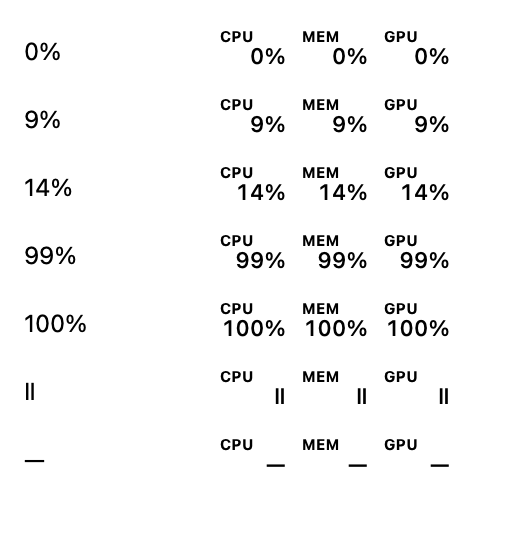
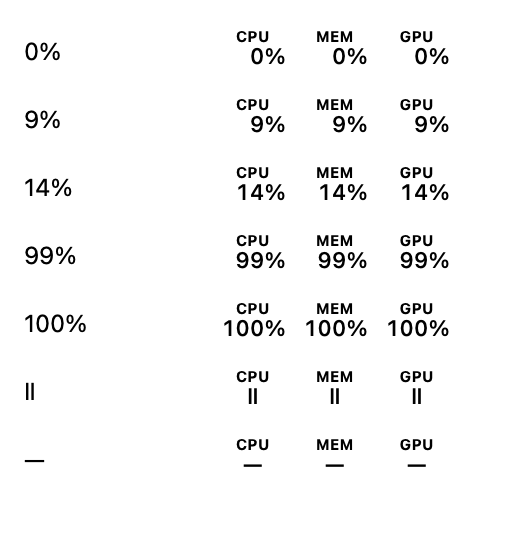
Fix meter centering and resized display placement before release

diff --git a/Sources/MyStat/AppDelegate.swift b/Sources/MyStat/AppDelegate.swift
@@ -20,7 +20,7 @@ final class Monitor: ObservableObject {
     @Published var interval: Double = 2
     @Published var paused = false
     let hardware = HardwareInfo()
-    let panelHeight = min(790.0, max(560.0, (NSScreen.main?.visibleFrame.height ?? 900) - 65))
+    @Published var panelHeight: CGFloat = 790
     var onUpdate: (() -> Void)?
     private let queue = DispatchQueue(label: "io.github.ballardcm.MyStat.sampling", qos: .utility)
     private var timer: DispatchSourceTimer?
@@ -104,6 +104,12 @@ final class AppDelegate: NSObject, NSApplicationDelegate, NSWindowDelegate {
         observers.append(NotificationCenter.default.addObserver(forName: NSApplication.didResignActiveNotification, object: NSApp, queue: .main) { [weak self] _ in
             MainActor.assumeIsolated { self?.closePanel() }
         })
+        observers.append(NotificationCenter.default.addObserver(forName: NSApplication.didChangeScreenParametersNotification, object: nil, queue: .main) { [weak self] _ in
+            // Let AppKit update the status item's screen and anchor before measuring.
+            DispatchQueue.main.async {
+                if self?.panel.isVisible == true { self?.showPanel() }
+            }
+        })
         let center = NSWorkspace.shared.notificationCenter
         observers.append(center.addObserver(forName: NSWorkspace.willSleepNotification, object: nil, queue: .main) { [weak self] _ in
             MainActor.assumeIsolated { if self?.monitor.paused == false { self?.monitor.togglePause(); self?.resumeAfterSleep = true } }
@@ -130,15 +136,15 @@ final class AppDelegate: NSObject, NSApplicationDelegate, NSWindowDelegate {
     }
     private func showPanel() {
         guard let button = item.button, let statusWindow = button.window else { return }
+        let anchor = statusWindow.convertToScreen(button.convert(button.bounds, to: nil))
+        guard let screen = statusWindow.screen ?? NSScreen.main else { return }
+        let frame = DashboardPlacement.frame(anchor: anchor, visibleFrame: screen.visibleFrame)
+        monitor.panelHeight = frame.height
         if panel.contentViewController == nil {
             panel.contentViewController = NSHostingController(rootView: Dashboard(monitor: monitor, updates: updates, close: { [weak self] in self?.closePanel() }).clipShape(RoundedRectangle(cornerRadius: 14)))
         }
-        let anchor = statusWindow.convertToScreen(button.convert(button.bounds, to: nil))
-        let screen = statusWindow.screen?.visibleFrame ?? NSScreen.main!.visibleFrame
-        let x = min(max(screen.minX + 8, anchor.midX - 212), screen.maxX - 432)
-        let y = max(screen.minY + 8, anchor.minY - monitor.panelHeight - 5)
         // Attaching a fresh hosting controller can reset the borderless panel's size.
-        panel.setFrame(NSRect(x: x, y: y, width: 424, height: monitor.panelHeight), display: true)
+        panel.setFrame(frame, display: true)
         panel.makeKeyAndOrderFront(nil)
         installDismissalMonitors()
         reviewEvent("opened key=\(panel.isKeyWindow)")

diff --git a/Tests/MenuBarMeterTests.swift b/Tests/MenuBarMeterTests.swift
@@ -20,6 +20,13 @@ struct MenuBarMeterTests {
         // A left-aligned implementation has the same image size but fails this check.
         for scale in [1, 2] {
             let baseline = bitmap(reference, scale: scale)
+            for column in 0..<3 {
+                assertCentered(baseline, column: column, rows: 0..<10 * scale, scale: scale, label: "Caption")
+                for symbol in ["Ⅱ", "—"] {
+                    let rendered = bitmap(MenuBarMeter.image(texts: [symbol, symbol, symbol]), scale: scale)
+                    assertCentered(rendered, column: column, rows: 10 * scale..<22 * scale, scale: scale, label: symbol)
+                }
+            }
             for value in ["0%", "9%", "14%", "99%"] {
                 let rendered = bitmap(MenuBarMeter.image(texts: [value, value, value]), scale: scale)
                 for column in 0..<3 {
@@ -80,6 +87,21 @@ struct MenuBarMeterTests {
             try data.write(to: URL(fileURLWithPath: CommandLine.arguments[index + 1]))
         }
         print("PASS: 343 menu-bar state combinations keep \(reference.size.width) × \(reference.size.height) points; percent signs stay aligned at 1× and 2×")
+    }
+
+    @MainActor
+    static func assertCentered(_ bitmap: NSBitmapImageRep, column: Int, rows: Range<Int>, scale: Int, label: String) {
+        let cellWidth = (bitmap.pixelsWide / scale - 16) / 3
+        let left = (cellWidth + 8) * column * scale
+        let right = left + cellWidth * scale
+        let ink = (left..<right).filter { x in
+            rows.contains { y in (bitmap.colorAt(x: x, y: y)?.alphaComponent ?? 0) > 0.1 }
+        }
+        guard let first = ink.first, let last = ink.last else { fatalError("Missing \(label) pixels") }
+        let inkCenter = Double(first + last + 1) / 2
+        let cellCenter = Double(left + right) / 2
+        precondition(abs(inkCenter - cellCenter) <= 1.5 * Double(scale),
+                     "\(label) off center in column \(column), scale \(scale): \(inkCenter) vs \(cellCenter)")
     }
 
     @MainActor

diff --git a/Tests/DashboardPlacementTests.swift b/Tests/DashboardPlacementTests.swift
@@ -1,0 +1,31 @@
+import AppKit
+
+@main
+struct DashboardPlacementTests {
+    static func main() {
+        // Opening after a VM resize or on another display must use that display's
+        // current coordinates, including negative origins and a Dock inset.
+        for screen in [
+            NSRect(x: 0, y: 70, width: 1440, height: 805),
+            NSRect(x: 0, y: 60, width: 800, height: 515),
+            NSRect(x: -1920, y: -300, width: 1920, height: 1055),
+            NSRect(x: 1440, y: 110, width: 1024, height: 633)
+        ] {
+            for center in [screen.minX + 50, screen.midX, screen.maxX - 50] {
+                let anchor = NSRect(x: center - 60, y: screen.maxY, width: 120, height: 25)
+                let frame = DashboardPlacement.frame(anchor: anchor, visibleFrame: screen)
+                precondition(frame.minX >= screen.minX + 8 && frame.maxX <= screen.maxX - 8)
+                precondition(frame.minY >= screen.minY + 8 && frame.maxY <= screen.maxY - 8)
+                precondition(frame.maxY <= anchor.minY - 5)
+                precondition(frame.width == 424 && frame.height <= 790)
+                if center == screen.midX { precondition(frame.midX == center) }
+            }
+        }
+        let large = NSRect(x: 0, y: 0, width: 1440, height: 1000)
+        let small = NSRect(x: 0, y: 0, width: 800, height: 500)
+        let largeFrame = DashboardPlacement.frame(anchor: NSRect(x: 1000, y: 1000, width: 120, height: 25), visibleFrame: large)
+        let smallFrame = DashboardPlacement.frame(anchor: NSRect(x: 600, y: 500, width: 120, height: 25), visibleFrame: small)
+        precondition(largeFrame.height == 790 && smallFrame.height == 484)
+        print("PASS: dashboard fits current display after resizing, with edge anchors, Dock insets, and multiple-screen origins")
+    }
+}

diff --git a/Sources/MyStat/MenuBarMeter.swift b/Sources/MyStat/MenuBarMeter.swift
@@ -25,9 +25,14 @@ enum MenuBarMeter {
         let image = NSImage(size: NSSize(width: width, height: 22), flipped: false) { _ in
             var x: CGFloat = 0
             for index in labels.indices {
-                (labels[index] as NSString).draw(at: NSPoint(x: x, y: 12), withAttributes: caption)
+                let label = labels[index] as NSString
+                let captionX = x + (widths[index] - label.size(withAttributes: caption).width) / 2
+                label.draw(at: NSPoint(x: captionX, y: 12), withAttributes: caption)
                 let text = texts[index] as NSString
-                let numberX = x + widths[index] - text.size(withAttributes: number).width
+                let remaining = widths[index] - text.size(withAttributes: number).width
+                // Numeric readings keep their percent signs aligned. Standalone state
+                // symbols belong under the caption, not against the column's right edge.
+                let numberX = x + (texts[index] == "Ⅱ" || texts[index] == "—" ? remaining / 2 : remaining)
                 text.draw(at: NSPoint(x: numberX, y: 0), withAttributes: number)
                 x += widths[index] + gap
             }

diff --git a/Sources/MyStat/DashboardPlacement.swift b/Sources/MyStat/DashboardPlacement.swift
@@ -1,0 +1,13 @@
+import AppKit
+
+enum DashboardPlacement {
+    static func frame(anchor: NSRect, visibleFrame: NSRect) -> NSRect {
+        let margin: CGFloat = 8
+        let width: CGFloat = 424
+        let top = min(anchor.minY - 5, visibleFrame.maxY - margin)
+        let height = min(790, max(0, top - visibleFrame.minY - margin))
+        let x = min(max(visibleFrame.minX + margin, anchor.midX - width / 2),
+                    visibleFrame.maxX - width - margin)
+        return NSRect(x: x, y: top - height, width: width, height: height)
+    }
+}

diff --git a/docs/testing/2026-10-12-release-0.2.0-preparation.md b/docs/testing/2026-10-12-release-0.2.0-preparation.md
@@ -1,6 +1,6 @@
 # MyStat 0.2.0 release preparation
 
-Status: **not release-qualified or published**. Apple Developer Program activation is now complete and certificate management is accessible. Developer ID certificate creation, a notarization Keychain credential, and real signed-release qualification are still pending. No valid local code-signing identity was available during the initial preparation.
+Status: **signed and notarized candidates verified; final release qualification in progress**. Developer ID and notarization Keychain setup are complete. No 0.2.0 release or production appcast has been published.
 
 - Candidate: 0.2.0, build 5, branch `release/0.2.0`, based on `36765ee`; includes the fixed-width menu-bar fix for issue #16.
 - Host: macOS 27.0.1, build 26A434; Apple Command Line Tools.
@@ -22,12 +22,25 @@ The following preview uses the production renderer with synthetic test values; i
 
 ![Fixed-width menu-bar states](menu-bar-fixed-width.png)
 
+## Signed candidate and alignment checks
+
+- Developer ID Application team `W3JSSNASR4`; hardened runtime and timestamps on MyStat and bundled Sparkle code. Public certificate contains no personal email.
[1 lines of base64/hex data omitted]
+- On macOS 26.6 (25G72), the real installed 0.1.3 app upgraded to the signed candidate through Sparkle using a local, production-key-signed candidate feed and a disposable driver. The original app bundle was unmodified. Install/relaunch, exactly one running instance, five-second interval, automatic checks off, original app path, and launch at login after full guest restart all passed. The production HTTPS controller path remains a post-publication check.
+- User review caught misaligned menu labels/state symbols and a panel that could overflow a resized VM display. Captions and pause/unavailable glyphs are now centered in their fixed columns; numeric readings retain the requested right alignment. Panel height and position are recomputed from the current display on open and after display changes.
+- Added rendered centering checks at 1×/2× and placement cases for smaller displays, edge anchors, Dock insets, and offset/negative display origins. Existing 343-state and live neighboring-item stability checks pass.
[2 lines of base64/hex data omitted]
+- Host smoke sample: CPU 4.32% (a later `top` sample showed 5.79% busy), memory pressure 24% matched kernel availability 76%; live CPU/GPU temperature and power readings were available. Samples were not simultaneous precision comparisons. Host macOS 27 remains experimental; independent sensor accuracy and physical sleep/wake qualification remain outstanding.
+- Clean macOS 26.6 browser download retained Safari quarantine. Normal first launch displayed Apple's downloaded-app confirmation stating that it had checked the app for malicious software; no Open Anyway override or quarantine removal was used. The clean app started with automatic checks off and the default interval. The owner reviewed its layout.
+- Final visual pass on the Release Test VM: changed the visible VM window from 2704 × 1698 to 1354 × 850 pixels while the dashboard was open. The panel resized below the menu bar and above the Dock, with header/footer visible; scrolling reached GPU and Power. Light/dark appearance, centered pause/unavailable symbols, pause/resume, settings menu, Escape, close-button dismissal, and reopening passed. These are host VM-window pixel sizes, not asserted guest point dimensions. The five-second interval and launch-at-login setting remained intact.
+- Reran the complete local unit and real Sparkle integration suites after the alignment changes; all passed. The same source-level tests and live status-item fixture also passed in the macOS 26 guest. No hardware sensor mappings changed in this release.
[1 lines of base64/hex data omitted]
+
 ## Required before publishing
 
-1. Developer ID Application certificate and private key in Keychain; validated notarytool Keychain profile. Membership activation is complete.
-2. Real hardened-runtime build, accepted Apple submission, staple, extracted-archive ticket verification, and Gatekeeper acceptance. Inspect the public certificate metadata before publication for accidental personal email disclosure.
-3. macOS 26 clean-install and real 0.1.3 → 0.2.0 upgrade qualification, including launch-at-login and settings continuity across the signing-identity change; host hardware smoke check. Record macOS 27 separately as experimental.
-4. Update README/INSTALL release signing notices after verification, finish review, and merge the release PR normally. Build and verify the final artifact from the exact merged commit and record its checksum/submission ID.
-5. Publish `v0.2.0` with the verified archive and checksum, then merge the separately reviewed, newly signed appcast through a PR. Verify the public download and production update path.
+1. Retain the recorded macOS 26 clean-launch, local real 0.1.3 → 0.2.0 upgrade, launch-at-login/settings continuity, and host smoke evidence. Keep macOS 27 and sensor-accuracy limits explicit.
+2. Finish review and merge the release PR normally. README/INSTALL signing notices have been updated after verification. Build and verify the final artifact from the exact merged commit and record its checksum/submission ID.
+3. Publish `v0.2.0` with the verified archive and checksum, then merge the separately reviewed, newly signed appcast through a PR. Verify the public download and production update path.
 
-Prepared with substantial OpenAI Codex assistance. This record deliberately makes no claim of successful notarization or signed-release compatibility testing.
+Prepared with substantial OpenAI Codex assistance. Apple acceptance is recorded separately from VM and hardware qualification; it does not establish sensor accuracy.

diff --git a/README.md b/README.md
@@ -6,7 +6,7 @@ MyStat is a small native Swift/SwiftUI monitor for Apple Silicon. CPU activity, 
 
 A native app with no accounts, subscriptions, analytics, or privileged helper. Sparkle is bundled for optional signed updates; automatic checks are off by default. Free to use, change, and share under the [MIT license](LICENSE).
 
-**Tested on macOS 26 and 27.0.1 with an M5 Pro MacBook Pro.** Also reported working on an M5 MacBook Air with macOS 26. See [tested configurations and results](docs/testing/2026-10-12-hardware.md).
+**Built and tested for macOS 26 on Apple Silicon.** Tested on an M5 Pro MacBook Pro and reported working on an M5 MacBook Air. macOS 27 hardware checks remain experimental. See [tested configurations and results](docs/testing/2026-10-12-hardware.md).
 
 [Download the latest release](https://github.com/ballardcm/mystat/releases/latest) · [Install](INSTALL.md) · [Contribute](CONTRIBUTING.md) · [Report an issue](https://github.com/ballardcm/mystat/issues)
 
@@ -36,7 +36,7 @@ Click outside, press Escape, click the menu-bar item again, or use × to close. 
 
 Download the `MyStat-<version>-macos-arm64.zip` asset from the [latest release](https://github.com/ballardcm/mystat/releases/latest), unzip it, move `MyStat.app` into an Applications folder you own, and open it. Look in the menu bar; there is no Dock icon.
 
-This release is **ad-hoc signed, not Developer ID signed or notarized**. macOS may block the first launch. See [installation instructions](INSTALL.md) for Apple's per-app approval steps, checksum verification, updating, and uninstalling. You can also build from source below.
+Starting with **0.2.0, official releases are Developer ID signed and notarized by Apple**. See [installation instructions](INSTALL.md) for checksum verification, updating, uninstalling, and guidance for older ad-hoc releases. You can also build from source below.
 
 ## Build from source
 
@@ -63,7 +63,7 @@ Package an ad-hoc test build, including the license, install guide, and SHA-256 
 ./scripts/release.sh --adhoc
 ```
 
-Ad-hoc test artifacts are written to `dist/adhoc/`, which is excluded from Git. The release script runs the hardware tests, builds the app, checks its signature, and packages only the intended deliverables. Official 0.2.0 release preparation uses [Developer ID signing and notarization](docs/SIGNING.md); running `./scripts/release.sh` without `--adhoc` requires the signing identity and notarization Keychain profile and produces an archive only after Apple acceptance and local verification.
+Ad-hoc test artifacts are written to `dist/adhoc/`, which is excluded from Git. The release script runs the hardware tests, builds the app, checks its signature, and packages only the intended deliverables. Official releases use [Developer ID signing and notarization](docs/SIGNING.md); running `./scripts/release.sh` without `--adhoc` requires the signing identity and notarization Keychain profile and produces an archive only after Apple acceptance and local verification.
 
 ## Measurements and compatibility
 

diff --git a/docs/RELEASE_TESTING.md b/docs/RELEASE_TESTING.md
@@ -16,6 +16,18 @@ Keep both clean OS baselines after successful upgrade tests, shut down between t
 
 Host home, cloud folders, application sharing, shared clipboard, and automatic volume sharing should be disabled for both baselines. Keep Apple Account sign-in out of these disposable guests. Record the exact guest OS build and verify all settings rather than assuming a clone or a new OS version preserves them.
 
+## Before signing: qualify the actual UI
+
+Do this **before the first Developer ID signature or Apple submission**, using an ad-hoc candidate in the disposable macOS 26 test VM. First build with `./scripts/release.sh --adhoc` and run `./scripts/test-updates-integration.sh`. Use the established per-app approval flow for this local test build; do not disable Gatekeeper globally. This development pass is separate from the later quarantined notarized-install check.
+
+- Inspect the actual menu-bar display with one-, two-, and three-digit readings, pause, and unavailable values. Confirm caption/value alignment and stable neighboring icons. Use the live meter fixture to force states unavailable on the VM, alongside the actual app.
+- Before inspecting each host or VM, match the installed executable's SHA-256 to the candidate, then relaunch and verify the running process path. Version/build labels alone are insufficient when multiple candidates share them. Record which candidate each VM is running.
+- Open the dropdown at a normal desktop size and a smaller VM display (for example, 800 × 600). Resize the VM while it is open, close/reopen, and confirm that the full header/footer remain visible below the menu bar and above the Dock. Scrolling must reach every section without clipped controls.
+- Check light/dark appearance, gear and right-click menus, pause/resume, sampling settings, Escape, close-button, and outside-click dismissal.
+- Record the exact source revision (and any uncommitted candidate diff), OS/display sizes, observed results, and defects. Fix defects and repeat affected checks before signing. Unit tests, static screenshots, and notarization acceptance are not substitutes for this visual pass.
+
+Only then continue with Developer ID signing, Apple submission, and the signed clean-install/upgrade checks below. Any later UI change returns to this pre-signing stage.
+
 ## Build and automated checks
 
 Configure the signing identity and notarization Keychain profile as described in [SIGNING.md](SIGNING.md). Official archives require the complete Apple verification path. For development/CI without credentials, use `./scripts/release.sh --adhoc` and check `dist/adhoc/SHA256SUMS`; this does not qualify a release.

diff --git a/docs/SIGNING.md b/docs/SIGNING.md
@@ -1,6 +1,6 @@
 # Developer ID signing and notarization
 
-MyStat 0.2.0 is being prepared as the first Developer ID signed and notarized release. Do not publish it until the real signing, notarization, Gatekeeper, macOS 26 VM, and upgrade checks have passed. Ad-hoc CI artifacts are test builds only.
+MyStat 0.2.0 introduces Developer ID signing and Apple notarization. Every official release must pass real signing, notarization, Gatekeeper, macOS 26 VM, and upgrade checks before publication. Ad-hoc CI artifacts are test builds only.
 
 ## One-time setup on the maintainer's Mac
 
@@ -17,7 +17,7 @@ MyStat 0.2.0 is being prepared as the first Developer ID signed and notarized re
 
 ## Build the official archive
 
-Build and qualify a candidate from the release branch before merging its PR. After merge, build the official artifact from the exact merged commit and verify that artifact before publishing. Use the certificate name or SHA-1 identity hash reported by `security find-identity`:
+First qualify an **ad-hoc candidate visually on macOS 26**, following the [before-signing checklist](RELEASE_TESTING.md#before-signing-qualify-the-actual-ui). Check the real app at normal and small display sizes and during resizing; record the source revision and fix any defects before invoking the signing command. Then sign and qualify that candidate from the release branch before merging its PR. After merge, build the official artifact from the exact merged commit and verify that artifact before publishing. Use the certificate name or SHA-1 identity hash reported by `security find-identity`:
 
 ```sh
 export MYSTAT_SIGN_IDENTITY='Developer ID Application: YOUR NAME (TEAMID)'

diff --git a/INSTALL.md b/INSTALL.md
@@ -10,7 +10,9 @@ MyStat is built for and tested on **Apple Silicon running macOS 26**, with M5 Pr
 4. Click the display to see details. MEM is **memory pressure**; the dropdown also shows the percentage of physical memory used.
 5. Optional: use the dropdown's gear menu to enable **Launch at login** after placing the app in its permanent location.
 
-The release has an ad-hoc code signature. It is **not Developer ID signed or notarized**, so macOS may block it on first launch. If you have reviewed the project and trust this download, first try opening the app, then use **System Settings → Privacy & Security → Open Anyway** for MyStat. Follow [Apple's instructions](https://support.apple.com/en-us/102445). No system-wide security changes are needed. Building locally from source is another option.
+Official releases starting with **0.2.0 are Developer ID signed and notarized by Apple**, with the notarization ticket included in the app. Open the downloaded app normally; no Open Anyway override is required. macOS may ask you to confirm opening an app downloaded from the internet.
+
+Older 0.1.x releases and default local builds use ad-hoc signatures. For those builds only, if you trust the source, follow [Apple's per-app approval instructions](https://support.apple.com/en-us/102445). Never disable Gatekeeper globally. Building locally from source is another option.
 
 ## Verify the download
 

diff --git a/AGENTS.md b/AGENTS.md
@@ -7,3 +7,4 @@
 - Preserve the MIT license and third-party attribution. Disclose substantial AI assistance.
 - Review `.gitignore` and staged files before publishing. Never commit `build/`, `dist/`, raw diagnostics, credentials, or screenshots of unrelated apps.
 - Run appropriate build/tests. Sensor compatibility requires hardware validation in addition to unit tests.
+- Before Developer ID signing or notarization, build an ad-hoc candidate and visually test the actual app on macOS 26 at normal and small display sizes, including resizing while the dropdown is open. Check menu-bar alignment across digit changes, pause, and unavailable states; check the entire panel, dismissal, light/dark appearance, and settings. Record the exact source revision and observed results. Unit tests and rendered fixtures do not replace this pass. Any later UI change requires repeating the affected visual checks before signing.
